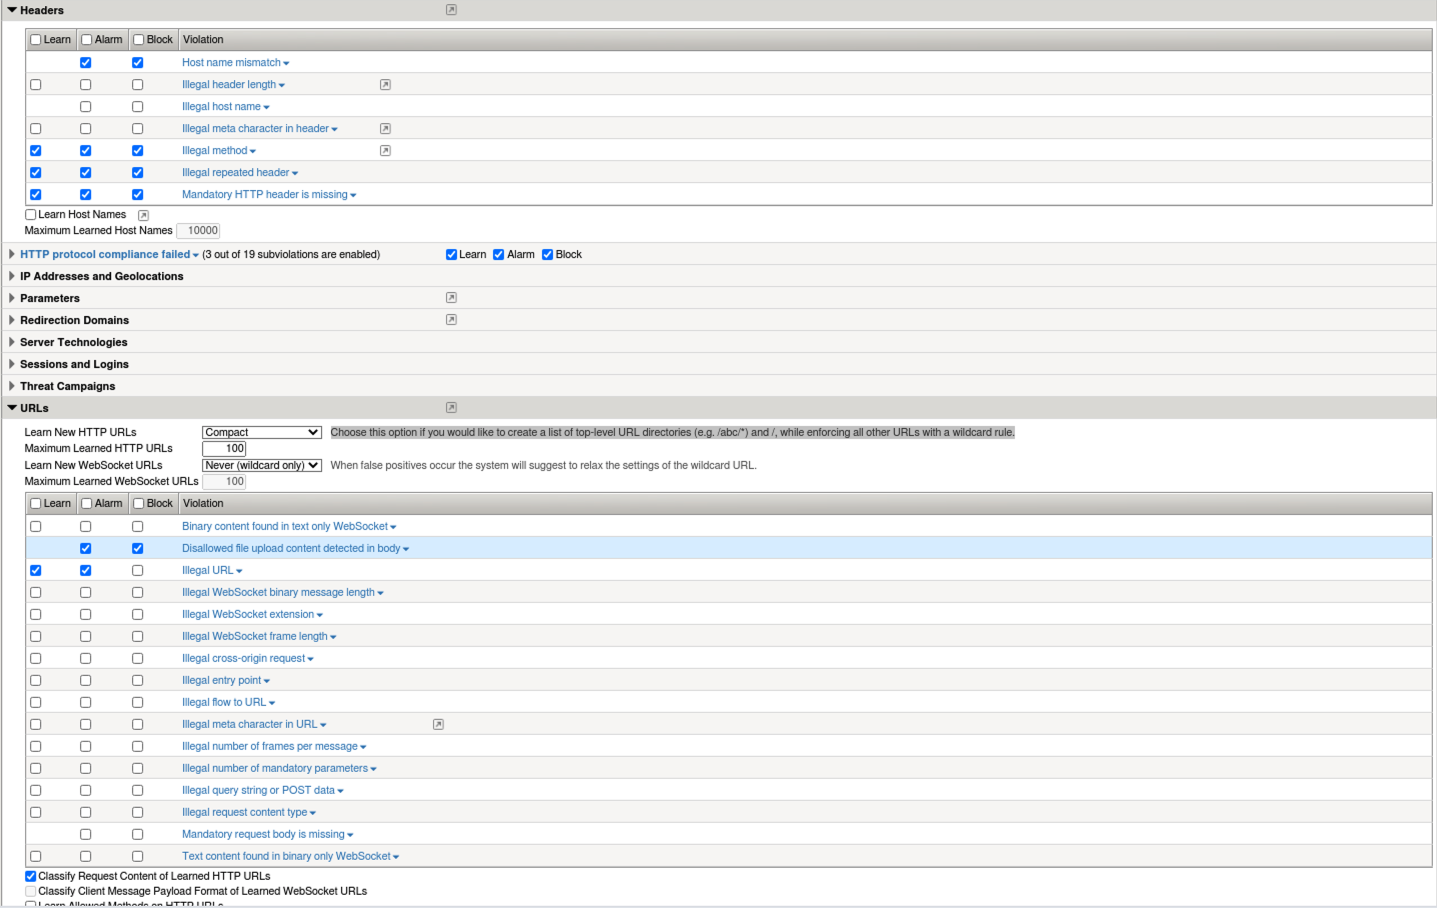
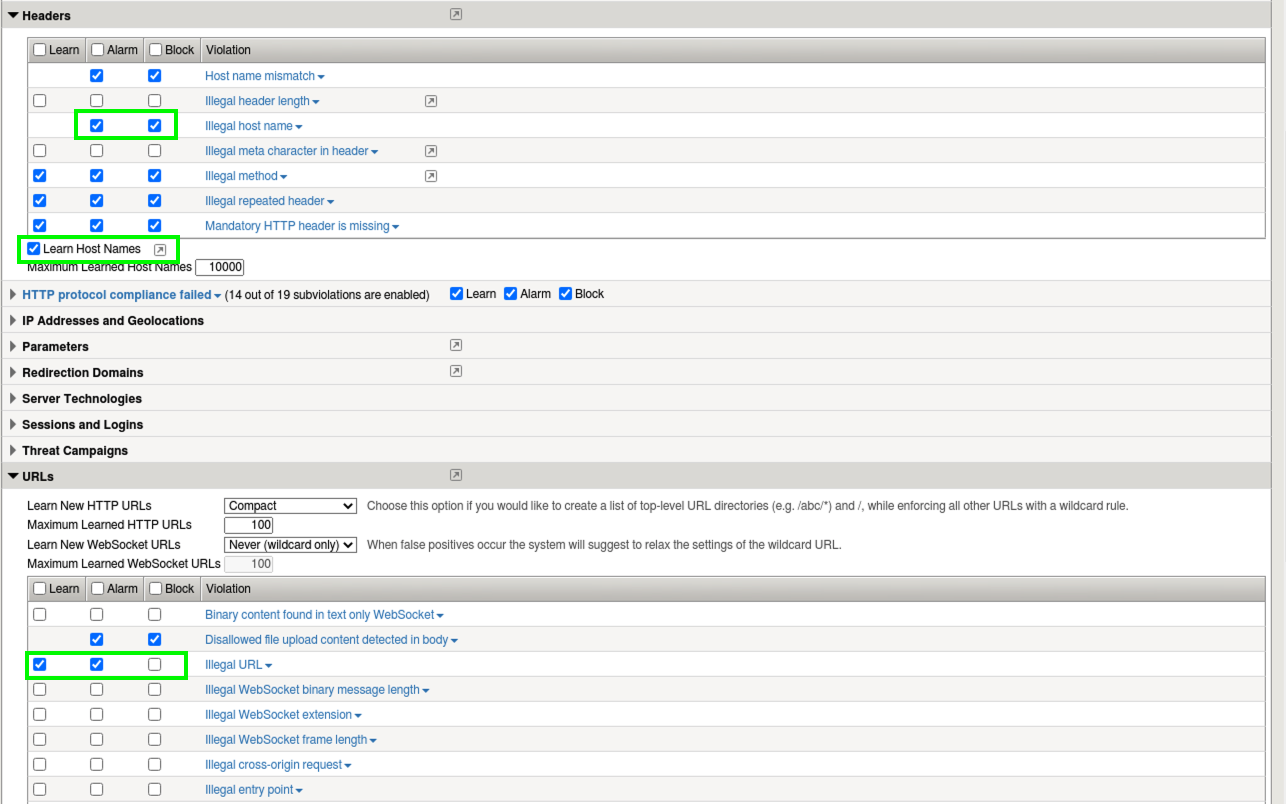
feedback updates

Changed region(s): [[0.0, 0.0, 1.0, 1.0]]

diff --git a/docs/waf241/module4 - login protect/lab1/lab1.rst b/docs/waf241/module4 - login protect/lab1/lab1.rst
@@ -1,41 +1,7 @@
 Lab 4: Login Page Protection
 ------------------------------
 
-..  |lab41-02| image:: images/lab41-02.png
-        :width: 800px
-..  |lab41-03| image:: images/lab41-03.png
-        :width: 800px
-..  |lab41-04| image:: images/lab41-04.png
-        :width: 800px
-..  |lab41-05| image:: images/lab41-05.png
-        :width: 800px
-..  |lab41-06| image:: images/lab41-06.png
-        :width: 800px
-..  |lab41-07| image:: images/lab41-07.png
-        :width: 800px
-..  |lab41-08| image:: images/lab41-08.png
-        :width: 800px
-..  |lab41-09| image:: images/lab41-09.png
-        :width: 800px
-..  |lab41-10| image:: images/lab41-10.png
-        :width: 800px
-..  |lab41-11| image:: images/lab41-11.png
-        :width: 800px
-..  |lab41-12| image:: images/lab41-12.png
-        :width: 800px
-..  |lab41-13| image:: images/lab41-13.png
-        :width: 600px
-..  |lab41-14| image:: images/lab41-14.png
-        :width: 800px
-..  |lab41-15| image:: images/lab41-15.png
-        :width: 800px
-..  |lab41-16| image:: images/lab41-16.png
-        :width: 800px
-
-
-
 In this final lab we will explore some of the login protection and session tracking capabilities present in F5 Advanced WAF and end with a fully configured Virtual Server.  F5 Advanced WAF not only has the capability to gather user identity details from login pages and APM, but can also generate a unique Device-ID for each connected client. 
-
 
 Virtual Server Configuration
 ~~~~~~~~~~~~~~~~~~~~~~~~~~~~~~
@@ -48,12 +14,6 @@ Virtual Server Configuration
 
 Define Login & Logout Pages
 ~~~~~~~~~~~~~~~~~~~~~~~~~~~~~~~~~~~
-
-go to account Logout
-go to password inspect
-login with username and add an extra ! to your password so it fails
-login with regular username/password
-2 entries in inspect > network
 
 #.  To configure a login page, go to **Security > Application Security > Sessions and Logins > Login Pages List**.  Ensure the **juiceshop_blocking** is selected at the top-middle-left of the GUI and click **Create**.
 #.  We'll now populate the form with data gathered from the browser inspection tools during a login attempt as shown below. 
@@ -127,18 +87,18 @@ Test Session Tracking
 .. image:: images/sessions.png
         :width: 600 px
 
-#. Click the down arrow next to **Device ID** to open the Session Tracking details. Check the box to enable **Log All Requests** and click **Change**. You are now tracking all sessions from this Device ID. 
+3. Click the down arrow next to **Device ID** to open the Session Tracking details. Check the box to enable **Log All Requests** and click **Change**. You are now tracking all sessions from this Device ID. 
 
 .. image:: images/did.png
         :width: 600 px
 
 
-#. Repeat this process for the username field as well to track all sessions from **f5student**
+4. Repeat this process for the username field as well to track all sessions from **f5student**
 
 .. image:: images/user.png
         :width: 600 px
 
-#. Navigate to **Reporting > Application > Session Tracking Status** and review the entries that were just created from the application request event log. 
+5. Navigate to **Reporting > Application > Session Tracking Status** and review the entries that were just created from the application request event log. 
 #. Click "View Requests" for either of them to see all requests filtered by either the Device ID or Username. You may also use this page to release the Username or Device ID from Session Tracking.  
 #. These features are useful for forensic purposes as well as blocking access to applications by Device-ID, Username, etc.
 #. Finally, navigate to **Security > Application Security > Sessions and Logins > Session Tracking** and review the other more detailed actions you can take based off of Devie ID, Username etc. 

diff --git a/docs/waf241/module2 - positive sec/lab1/lab1.rst b/docs/waf241/module2 - positive sec/lab1/lab1.rst
@@ -16,7 +16,8 @@ If you were following along in successive fashion and building your own environm
 
 .. image:: images/cookies.png
   :width: 600 px
-
+|
+|
 6. Under **Headers** check the box for both Alarm and Block for **Illegal host name** and then it's very important to check the bottom box for **Learn New Hostnames**.
 7. Under **URLS** enable **Compact Mode** for "Learn New HTTP URLS" instead of **Never (wildcard only)**. Note the description of this mode: 
 

diff --git a/docs/waf241/module1 - elevated bot/module1.rst b/docs/waf241/module1 - elevated bot/module1.rst
@@ -1,4 +1,4 @@
-Module 1: Elevated Bot Defense1
+Module 1: Elevated Bot Defense
 ==================================
 Expected time to complete: **20 min**
 
